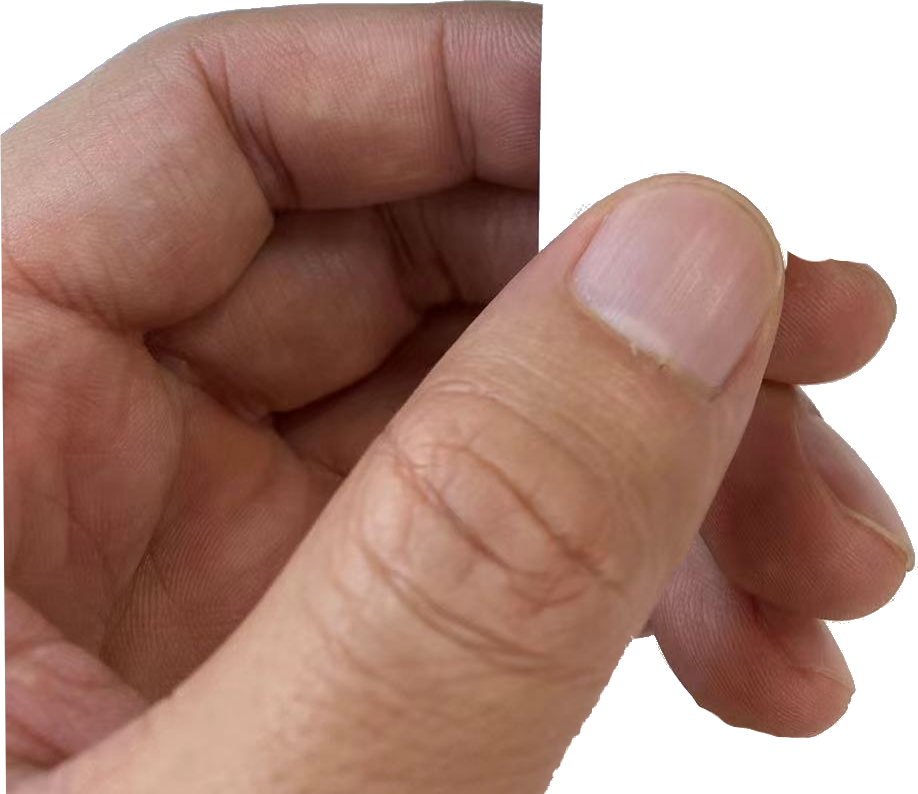
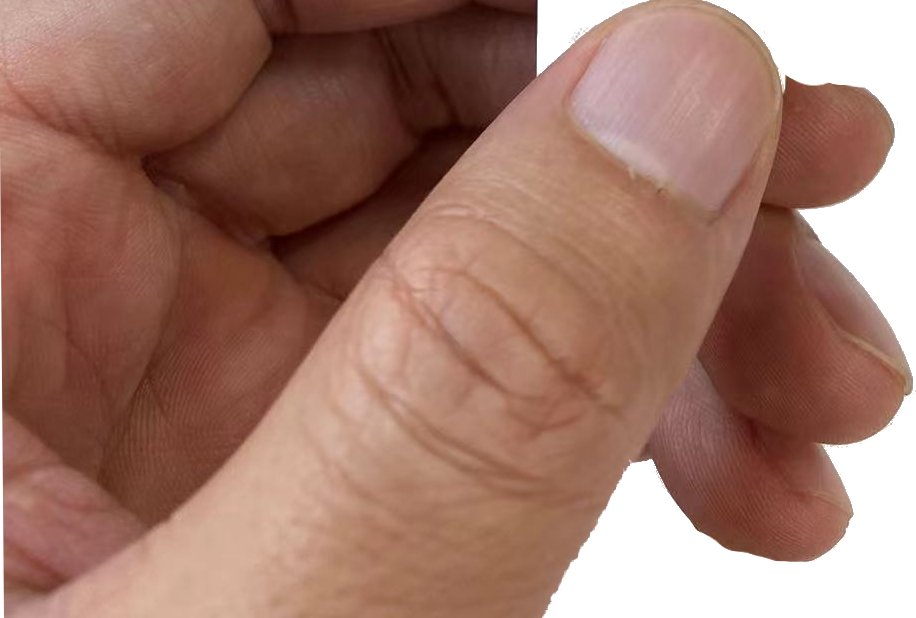
图片生成： 遮挡

diff --git a/datagen/datagen.py b/datagen/datagen.py
@@ -34,7 +34,7 @@ characters = [
     "neg4a", "fal4a", "nul4a", "pos4a",
 ]
 characters_p = [0.03125]*32
-objects = ["none", "hand1-R", "hand2-L", "hand3-D", "hand4-L",  "hand5-R",  "hand6-U",  "hand7-L"]
+objects = ["none", "hand1-R", "hand2-L", "hand3-D", "hand4-L",  "hand5-R",  "hand6-U",  "hand7-D"]
 objects_p = [0.4, 0.1, 0.05, 0.1, 0.05, 0.1, 0.1, 0.1]
 angels = [0, 90, 180, 270]
 angels_p = [0.25, 0.25, 0.25, 0.25]
@@ -195,24 +195,38 @@ def generate_image(background, character, object, file_name):
 
         if object_pos=='R': # 在右侧
             if rotate_angle==0 or rotate_angle==180:
-                x_offset = character_image.width+np.random.randint(-5, 0)
-                y_offset = np.random.randint(-80, -50)
+                x_offset = character_image.width+np.random.randint(-20, 0)
+                y_offset = np.random.randint(-50, -10)
             else:
-                x_offset = character_image.width+np.random.randint(-50, -30)
-                y_offset = np.random.randint(-80, -50)
+                #x_offset = character_image.width+np.random.randint(-character_image.width//3, 0)
+                x_offset = character_image.width-character_image.width//3
+                y_offset = np.random.randint(-50, -10)
         elif object_pos=='L': # 在左侧
             if rotate_angle==0 or rotate_angle==180:
-                x_offset = -object_image.width+np.random.randint(0, 5)
-                y_offset = np.random.randint(-80, -50)
+                x_offset = -object_image.width+np.random.randint(0, 20)
+                y_offset = np.random.randint(-50, -10)
             else:
-                x_offset = -object_image.width+np.random.randint(30, 50)
-                y_offset = np.random.randint(-80, -50)
+                #x_offset = -object_image.width+np.random.randint(0, character_image.width//3)
+                x_offset = -object_image.width+character_image.width//3
+                y_offset = np.random.randint(-50, -10)
         elif object_pos=='U': # 在上面
-            x_offset = np.random.randint(-80, -30)
-            y_offset = -object_image.height+np.random.randint(0, 5)
+            if rotate_angle==0 or rotate_angle==180:
+                x_offset = np.random.randint(-80, -30)
+                #y_offset = -object_image.height+np.random.randint(0, character_image.height//3)
+                y_offset = -object_image.height+character_image.height//3
+
+            else:
+                x_offset = np.random.randint(-80, -30)
+                y_offset = -object_image.height+np.random.randint(0, 5)
         else: # 在下面
-            x_offset = np.random.randint(-80, -30)
-            y_offset = character_image.height+np.random.randint(-5, 0)
+            if rotate_angle==0 or rotate_angle==180:
+                x_offset = np.random.randint(-80, -30)
+                #y_offset = character_image.height+np.random.randint(-character_image.height//3, 0)
+                y_offset = character_image.height-character_image.height//3
+
+            else:
+                x_offset = np.random.randint(-80, -30)
+                y_offset = character_image.height+np.random.randint(-5, 0)
 
         coordinates2 = (coordinates[0]+x_offset, coordinates[1]+y_offset) #x, y
 
@@ -249,5 +263,5 @@ def generate_random_imgs(total_imgs):
 
 
 if __name__ == "__main__":
-    generate_random_imgs(10000)
+    generate_random_imgs(20)
 
